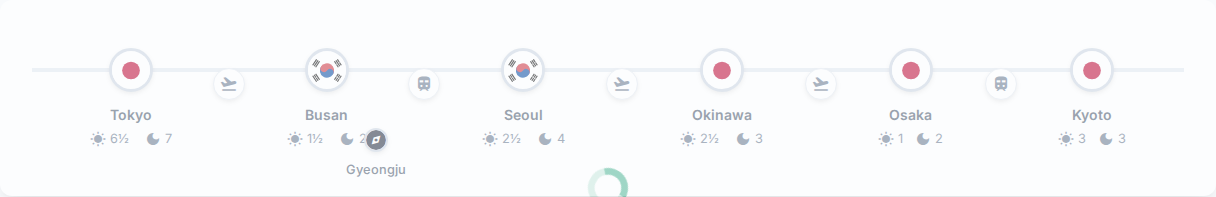
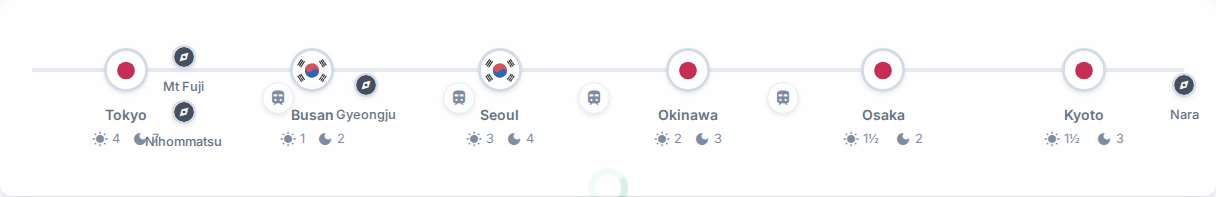
Refactor timeline to improve daytrip display
Reworked the city timeline to use a flexbox layout for the connection elements between cities.

This ensures that daytrip locations are consistently displayed to the left of the transport icon. Daytrips are now grouped and stacked vertically to prevent overlapping on mobile devices and improve readability.

The previous implementation used absolute positioning, which caused layout issues on smaller screens. This change makes the layout more robust and responsive.

diff --git a/index.html b/index.html
@@ -115,14 +115,12 @@
             width: 100%;
             height: 100%;
             z-index: 15;
-            pointer-events: none; /* Allows clicks to pass through to the city item */
+            display: flex;
+            justify-content: space-around;
+            align-items: center;
         }
 
         .transport-icon {
-            position: absolute;
-            top: 20px; /* Positioned relative to the item top, to be above the line */
-            left: 50%;
-            transform: translateX(-50%);
             background-color: #fff;
             border-radius: 50%;
             color: #64748b;
@@ -137,15 +135,19 @@
         }
         .transport-icon .material-symbols-outlined { font-size: 18px; }
 
-        .day-trip-node {
-            position: absolute;
-            top: 80px; /* Position below the timeline line */
-            left: 25%; /* Position on the first half of the segment */
-            transform: translateX(-50%);
+        .day-trips-container {
             display: flex;
             flex-direction: column;
             align-items: center;
-            pointer-events: none; /* Make it unclickable */
+            justify-content: center;
+            gap: 4px;
+            pointer-events: auto;
+        }
+
+        .day-trip-node {
+            display: flex;
+            flex-direction: column;
+            align-items: center;
             cursor: default;
         }
 
@@ -680,20 +682,23 @@
 
                 const isLastCity = cityKey === allCities[allCities.length - 1];
 
+                if (stayInfo.dayTrips.length > 0) {
+                    const dayTripsContainer = document.createElement('div');
+                    dayTripsContainer.className = 'day-trips-container';
+                    stayInfo.dayTrips.forEach(trip => {
+                        const dayTripDiv = document.createElement('div');
+                        dayTripDiv.className = 'day-trip-node';
+                        dayTripDiv.innerHTML = `<div class="city-timeline-node">${icons.daytrip}</div><div class="city-timeline-label">${trip.city}</div>`;
+                        dayTripsContainer.appendChild(dayTripDiv);
+                    });
+                    connectionDiv.appendChild(dayTripsContainer);
+                }
+
                 if (!isLastCity && stayInfo.transportToNext) {
                     const transportDiv = document.createElement('div');
                     transportDiv.className = 'transport-icon';
                     transportDiv.innerHTML = `<span class="material-symbols-outlined">${transportIcons[stayInfo.transportToNext]}</span>`;
                     connectionDiv.appendChild(transportDiv);
-                }
-
-                if (stayInfo.dayTrips.length > 0) {
-                    stayInfo.dayTrips.forEach(trip => {
-                        const dayTripDiv = document.createElement('div');
-                        dayTripDiv.className = 'day-trip-node';
-                        dayTripDiv.innerHTML = `<div class="city-timeline-node">${icons.daytrip}</div><div class="city-timeline-label">${trip.city}</div>`;
-                        connectionDiv.appendChild(dayTripDiv);
-                    });
                 }
 
                 if (connectionDiv.hasChildNodes()) {
